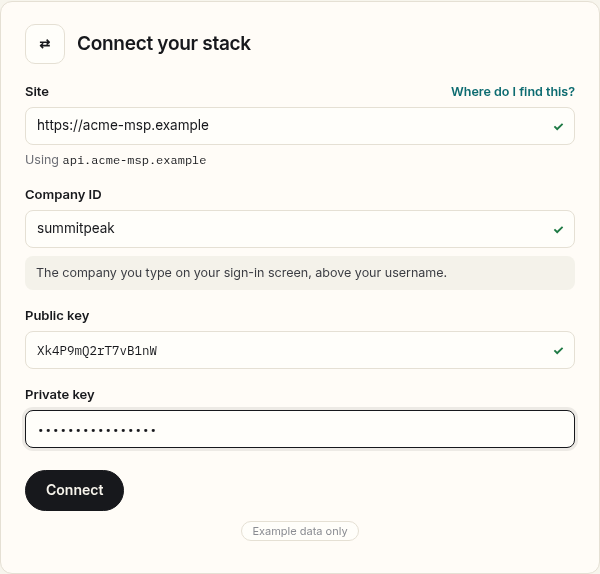
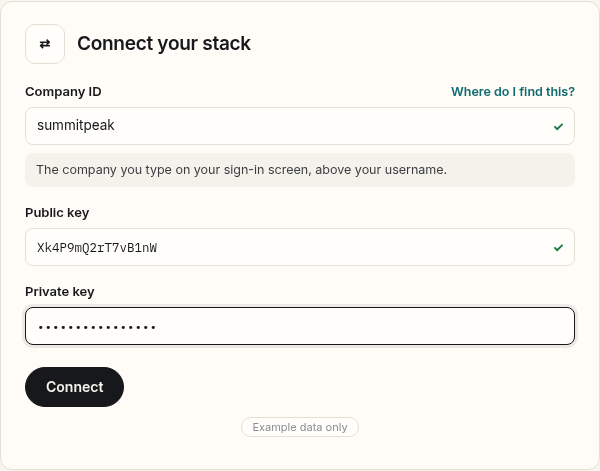
preview: Product hero restyle (branded mini-UI tiles, glow, float) and simpler Connect art

diff --git a/preview/index.html b/preview/index.html
@@ -973,7 +973,43 @@ body.docs footer{border-top-color:var(--dline);color:var(--dmute)}
 @media(max-width:820px){#page-product .msp-collage .msp-tile{--rot:0deg!important;margin-top:0!important}}
 @media(prefers-reduced-motion:reduce){#page-product .msp-tile .tilt{transition:none}}
 
-.ui.brand-stack{background:none!important;border:0!important;box-shadow:none!important;overflow:visible!important;border-radius:0!important}.ui img.brand-front{display:none!important}@media (max-width:640px){.ui.brand-stack picture img{border:1px solid #E1DCCF;border-radius:12px;filter:brightness(.96)}.ui img.brand-front{display:block!important;width:84%;margin:-20% 0 0 auto;position:relative;border-radius:12px;border:1px solid rgba(23,24,28,.22);box-shadow:0 22px 44px -8px rgba(20,24,30,.42),0 6px 14px rgba(20,24,30,.18)}}</style>
+.ui.brand-stack{background:none!important;border:0!important;box-shadow:none!important;overflow:visible!important;border-radius:0!important}.ui img.brand-front{display:none!important}@media (max-width:640px){.ui.brand-stack picture img{border:1px solid #E1DCCF;border-radius:12px;filter:brightness(.96)}.ui img.brand-front{display:block!important;width:84%;margin:-20% 0 0 auto;position:relative;border-radius:12px;border:1px solid rgba(23,24,28,.22);box-shadow:0 22px 44px -8px rgba(20,24,30,.42),0 6px 14px rgba(20,24,30,.18)}}
+#page-product .hx-stage{position:relative;max-width:1180px}
+#page-product .hx-glow{position:absolute;inset:-40px -20px -30px;z-index:0;pointer-events:none;background:radial-gradient(40% 60% at 22% 55%,rgba(63,184,175,.30),transparent 70%),radial-gradient(35% 55% at 52% 40%,rgba(242,153,74,.22),transparent 70%),radial-gradient(40% 60% at 80% 60%,rgba(124,108,242,.24),transparent 70%);filter:blur(8px)}
+#page-product .hx-stage .grid{position:relative;z-index:1;gap:22px;align-items:start}
+#page-product .hx-card{background:#fff;border:1px solid rgba(23,24,28,.14);border-radius:16px;overflow:hidden;box-shadow:0 30px 60px -22px rgba(12,40,44,.45),0 8px 18px -8px rgba(20,24,30,.18);text-align:left;font-family:Inter,system-ui,sans-serif;color:#17191C}
+#page-product .hx-band{display:flex;align-items:center;gap:9px;padding:13px 16px;color:#fff;background:linear-gradient(120deg,#0C6B70 0%,#0C6B70 64%,#0A3F43 100%);font-size:14px}
+#page-product .hx-a{width:24px;height:24px;border-radius:6px;background:#fff;color:#0C6B70;display:grid;place-items:center;font-weight:700;font-size:13px}
+#page-product .hx-tag{margin-left:auto;font-size:11.5px;font-weight:600;padding:3px 9px;border-radius:999px;background:var(--acc);color:#10181A}
+#page-product .hx-body{padding:16px 16px 18px}
+#page-product .hx-h{margin:0 0 12px;font-weight:650;font-size:15px}
+#page-product .hx-tools{display:grid;grid-template-columns:repeat(3,1fr);gap:8px}
+#page-product .hx-tool{position:relative;border:1px solid #E6E7EA;border-radius:11px;padding:12px 6px 10px;display:flex;flex-direction:column;align-items:center;gap:4px;text-align:center}
+#page-product .hx-tool img{height:30px;width:auto;max-width:80px;object-fit:contain}
+#page-product .hx-tool b{font-size:12.5px}#page-product .hx-tool small{font-size:11px;color:#6B6E75}
+#page-product .hx-tool.on{border:2px solid #0C6B70;background:#F0F8F7;padding:11px 5px 9px}
+#page-product .hx-tick{position:absolute;top:5px;right:5px;width:16px;height:16px;border-radius:50%;background:#0C6B70;color:#fff;font-size:10px;font-style:normal;display:grid;place-items:center}
+#page-product .hx-ok{font-size:10.5px;font-weight:600;color:#0C6B70}
+#page-product .hx-row{display:flex;justify-content:space-between;align-items:center;padding:10px 0;border-top:1px solid #EFEDE7;font-size:14px}
+#page-product .hx-sev{font-size:11.5px;font-weight:650;padding:3px 10px;border-radius:999px}
+#page-product .hx-sev.crit{background:#FDE3E1;color:#B4231A}#page-product .hx-sev.high{background:#FDEBD8;color:#A85413}#page-product .hx-sev.low{background:#E4F2F0;color:#0C6B70}
+#page-product .hx-route{margin:10px 0 0;font-size:12px;color:#5C5F66;display:flex;align-items:center;gap:6px}
+#page-product .hx-bill{display:flex;justify-content:space-between;align-items:center;padding:11px 0;border-top:1px solid #EFEDE7;font-size:14px}
+#page-product .hx-q{display:flex;align-items:center;gap:6px;font-size:13px}#page-product .hx-q s{color:#8A8C92}#page-product .hx-q i{font-style:normal;color:#7C6CF2}
+#page-product .hx-q b{background:#EEEBFE;color:#4B3CC4;padding:2px 8px;border-radius:999px;font-weight:650}
+#page-product .hx-dot{width:7px;height:7px;border-radius:50%;background:#3FB8AF}
+#page-product .hx-note{position:relative;z-index:1;margin:14px auto 0;width:max-content;font:11px Inter,system-ui,sans-serif;color:#8A8C92;background:#FFFEFA;border:1px solid #E5E0D4;border-radius:999px;padding:2px 10px}
+#page-product .hx-stage .msp-tile:nth-child(2){margin-top:26px}
+#page-product .hx-stage .msp-tile:nth-child(1) .tilt{transform:rotate(-2deg) translateX(14px)}
+#page-product .hx-stage .msp-tile:nth-child(3) .tilt{transform:rotate(2deg) translateX(-14px)}
+#page-product .hx-stage .msp-tile:nth-child(2){position:relative;z-index:2}
+@keyframes hxFloat{0%,100%{translate:0 0}50%{translate:0 -7px}}
+#page-product .hx-card{animation:hxFloat 7s ease-in-out infinite}
+#page-product .msp-tile:nth-child(2) .hx-card{animation-delay:-2.3s;animation-duration:8.5s}
+#page-product .msp-tile:nth-child(3) .hx-card{animation-delay:-4.6s;animation-duration:7.6s}
+@media(prefers-reduced-motion:reduce){#page-product .hx-card{animation:none}}
+@media(max-width:820px){#page-product .hx-stage .msp-tile:nth-child(n) .tilt{transform:none}#page-product .hx-stage .msp-tile:nth-child(2){margin-top:0}#page-product .hx-stage .grid{gap:16px}}
+</style>
 </head>
 <body>
 <a class="skip" href="#page-home">Skip to content</a>
@@ -1923,13 +1959,13 @@ body.docs footer{border-top-color:var(--dline);color:var(--dmute)}
 <section class="pad msp-hero"><div class="msp-hero-stage"><div class="wrap center"><div class="msp-rise">
 <h1>Your integration, your way.</h1><p class="sub">Bitlync runs the connection, alerts, billing and health checks around your product, under your brand.</p>
 <div class="btn-row" style="justify-content:center"><a class="btn" href="#partners">Talk to us</a></div></div></div>
-<div class="msp-collage"><div class="grid g3"><div class="msp-tile msp-rise"><div class="tilt"><div class="ui"><div class="uh"><span>Connect your stack</span><span>Acme Security</span></div><div class="ub"><div class="dig-row"><span class="dig-k">Site</span><span>Stack address ✓</span></div><div class="dig-row"><span class="dig-k">Company ID</span><span>summitpeak ✓</span></div><div class="dig-row"><span class="dig-k">Keys</span><span>Public and private ✓</span></div><div class="dig-note">Example data</div></div></div></div></div><div class="msp-tile msp-rise"><div class="tilt"><div class="ui"><div class="uh"><span>Alert types</span><span>Acme Security</span></div><div class="ub"><div class="rrow" style="grid-template-columns:1fr auto"><span>Malware detected</span><span class="sev"><i></i>Critical</span></div><div class="rrow" style="grid-template-columns:1fr auto"><span>Renewal notice</span><span class="sev l"><i></i>Low</span></div><div class="rrow" style="grid-template-columns:1fr auto"><span>Connection problem</span><span class="sev m"><i></i>High</span></div></div></div></div></div><div class="msp-tile msp-rise"><div class="tilt"><div class="ui"><div class="uh"><span>Activity · Billing</span><span>Acme Security</span></div><div class="ub"><table class="bt"><tr><th>Customer</th><th>Current</th><th>Next update</th></tr><tr><td>Northwind Clinic</td><td>48 users</td><td>Oct 20</td></tr><tr><td>Cedar Health</td><td>60 users</td><td>Oct 20</td></tr></table><div class="dig-note">Example data</div></div></div></div></div></div></div></div>
+<div class="msp-collage hx-stage"><div class="hx-glow" aria-hidden="true"></div><div class="grid g3"><div class="msp-tile msp-rise"><div class="tilt"><div class="hx-card hx-c1"><div class="hx-band"><span class="hx-a">A</span><b>Acme Security</b><span class="hx-tag" style="--acc:#3FB8AF">Connect</span></div><div class="hx-body"><p class="hx-h">Choose a tool</p><div class="hx-tools"><div class="hx-tool on"><i class="hx-tick">&#10003;</i><img src="logos/connectwise.png?v=3" alt="ConnectWise logo"><b>ConnectWise</b><span class="hx-ok">&#10003; Connected</span></div><div class="hx-tool"><img src="logos/halopsa.png?v=3" alt="Halo logo"><b>Halo</b><small>PSA</small></div><div class="hx-tool"><img src="logos/superops.png?v=3" alt="SuperOps logo"><b>SuperOps</b><small>PSA &middot; RMM</small></div></div></div></div></div></div><div class="msp-tile msp-rise"><div class="tilt"><div class="hx-card hx-c2"><div class="hx-band"><span class="hx-a">A</span><b>Acme Security</b><span class="hx-tag" style="--acc:#F2994A">Alerts</span></div><div class="hx-body"><p class="hx-h">Alert types</p><div class="hx-row"><span>Malware detected</span><span class="hx-sev crit">Critical</span></div><div class="hx-row"><span>Connection problem</span><span class="hx-sev high">High</span></div><div class="hx-row"><span>Renewal notice</span><span class="hx-sev low">Low</span></div><p class="hx-route">Routed to: Ticket &middot; Email &middot; Digest</p></div></div></div></div><div class="msp-tile msp-rise"><div class="tilt"><div class="hx-card hx-c3"><div class="hx-band"><span class="hx-a">A</span><b>Acme Security</b><span class="hx-tag" style="--acc:#7C6CF2">Billing</span></div><div class="hx-body"><p class="hx-h">Billing quantities</p><div class="hx-bill"><span>Northwind Clinic</span><span class="hx-q"><s>48 users</s><i>&rarr;</i><b>60 users</b></span></div><div class="hx-bill"><span>Cedar Health</span><span class="hx-q"><s>60 users</s><i>&rarr;</i><b>64 users</b></span></div><p class="hx-route"><span class="hx-dot"></span>Updated in the MSP's PSA</p></div></div></div></div></div><div class="hx-note">Example data</div></div></div>
 <a class="msp-cue" href="#s1" aria-label="Scroll down"><svg width="22" height="22" viewBox="0 0 22 22" aria-hidden="true" focusable="false"><path d="M5.5 8.5l5.5 5.5 5.5-5.5" fill="none" stroke="currentColor" stroke-width="1.5" stroke-linecap="round" stroke-linejoin="round"/></svg></a></section>
 <section class="pad band" id="s1"><div class="wrap"><div class="vsplit rev">
 <div class="scopy msp-rise"><span class="vtag">Branding</span><h2>Your brand throughout.</h2><p class="sub">The screens your MSPs see use your logo, colors and theme. Check the preview, then save and publish.</p></div>
 <div class="msp-rise lag msp-shot"><div class="ui brand-stack"><picture><source media="(max-width:640px)" srcset="assets/prod_branding_back.png?v=2 1x, assets/prod_branding_back@2x.png?v=2 2x"><img src="assets/prod_branding.png?v=2" srcset="assets/prod_branding.png?v=2 1x, assets/prod_branding@2x.png?v=2 2x" alt="Branding settings in the ISV console, with the Connect screen your MSPs see in your brand"></picture><img class="brand-front" src="assets/prod_branding_msp.png?v=2" srcset="assets/prod_branding_msp.png?v=2 1x, assets/prod_branding_msp@2x.png?v=2 2x" alt="" aria-hidden="true"></div></div></div></div></section><section class="pad band" id="s2"><div class="wrap"><div class="vsplit">
 <div class="scopy msp-rise"><span class="vtag">Connect</span><h2>One Connect flow.</h2><p class="sub">Your MSPs connect their stack in a few steps, with instructions showing exactly where to find each value. You don't build or maintain setup docs for those integrations.</p></div>
-<div class="msp-rise lag msp-shot"><div class="ui"><img src="assets/prod_connect_keys.png" srcset="assets/prod_connect_keys.png 1x, assets/prod_connect_keys@2x.png 2x" alt="Connect step: stack keys"></div></div></div></div></section><section class="pad band" id="s3"><div class="wrap"><div class="vsplit rev">
+<div class="msp-rise lag msp-shot"><div class="ui"><img src="assets/prod_connect_keys.png?v=3" srcset="assets/prod_connect_keys.png?v=3 1x, assets/prod_connect_keys@2x.png?v=3 2x" alt="Connect step: stack keys"></div></div></div></div></section><section class="pad band" id="s3"><div class="wrap"><div class="vsplit rev">
 <div class="scopy msp-rise"><span class="vtag">Least privilege</span><h2>Permissions checked before they connect.</h2><p class="sub">Bitlync checks the MSP's keys against the permissions you require before they can finish connecting. If something is missing, it shows exactly where to fix it in their stack, so setup mistakes don't become tickets for your support team.</p><ul class="mlist"><li>Ask only for what you need. Riskier writes start off, and Bitlync refuses deletes.</li><li>Step-by-step instructions show MSPs where to set the right permissions.</li><li>If a permission is lost later, the MSP gets a connection problem alert.</li></ul></div>
 <div class="msp-rise lag msp-shot"><div class="ui"><img src="assets/prod_permission_check.png" srcset="assets/prod_permission_check.png 1x, assets/prod_permission_check@2x.png 2x" alt="Permission check at Connect with one missing permission and its fix"></div></div></div></div></section><section class="pad band" id="s4"><div class="wrap"><div class="vsplit">
 <div class="scopy msp-rise"><span class="vtag">Configuration</span><h2>MSPs see what you'll use before they connect.</h2><p class="sub">Turn features on, mark what's required, and request permissions by category. Disabled features are hidden from MSPs at Connect.</p></div>
